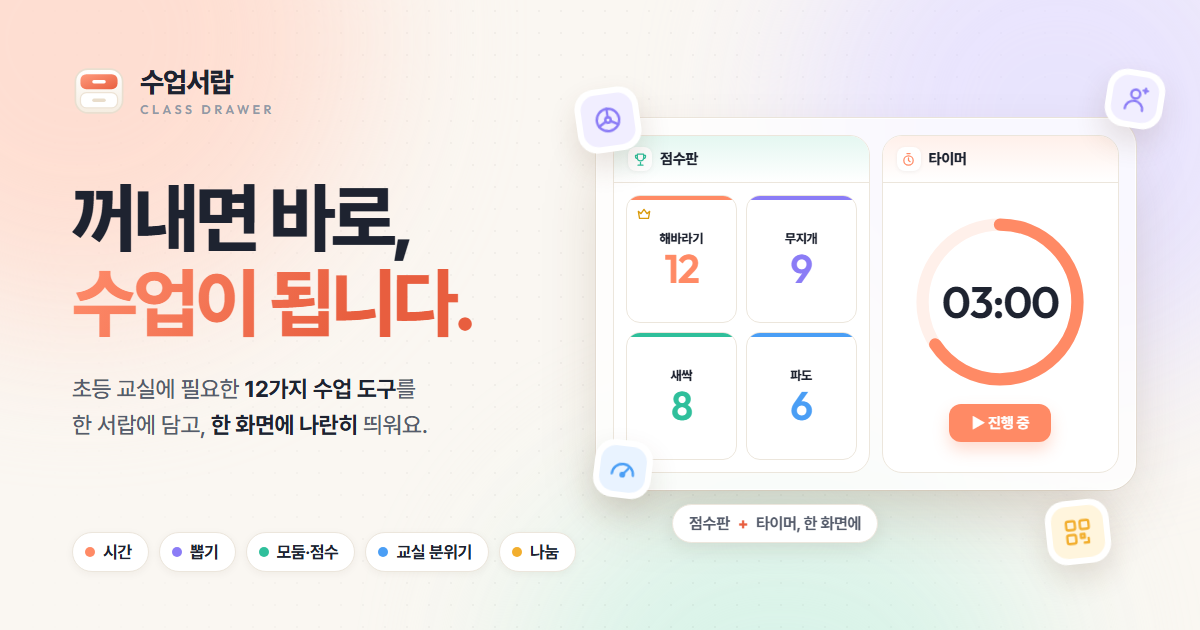
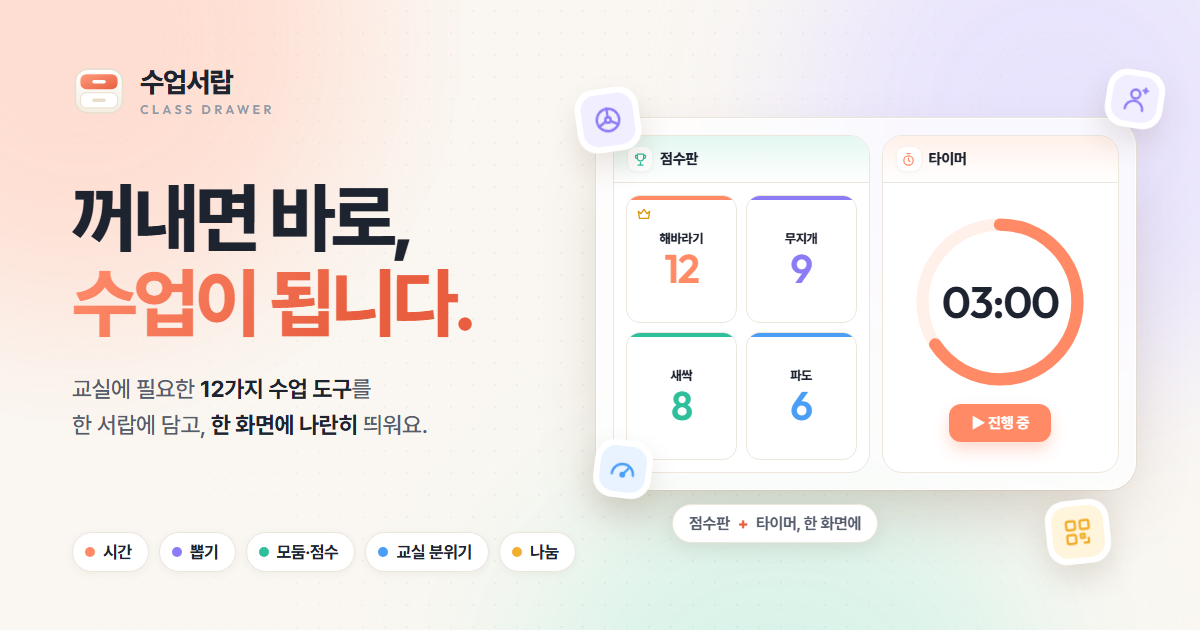
Add files via upload

Changed region(s): [[0.0617, 0.6032, 0.37, 0.6333]]

diff --git a/class/js/tools-pick.js b/class/js/tools-pick.js
@@ -7,6 +7,10 @@
   'use strict';
   const { ico, audio, roster, $, $$, esc, shuffle, rand, lines, register, WHEEL, PALETTE, fitCanvas, confetti } = SD;
   const emptyNote = () => `<div class="empty">${ico('users')}<div>명단이 비어 있어요.<br>위쪽 <b>우리 반</b> 버튼에서 이름을 넣어주세요.</div></div>`;
+  /* 움직임을 불편해하는 설정이면 굴리는 시간을 확 줄여요 */
+  const slow = () => !matchMedia('(prefers-reduced-motion: reduce)').matches;
+  /* 이름이 바뀔 때마다 조금씩 높아지는 소리 — 긴장감 */
+  const tick = (i) => audio.tone(760 + i * 26, 0, .05, .07, 'triangle');
 
   /* ---------------- 1명 뽑기 ---------------- */
   register({
@@ -37,14 +41,20 @@
         let p = pool();
         if (!p.length) { used.clear(); p = pool(); SD.toast('모두 한 번씩 뽑혔어요. 처음부터 다시 뽑아요.'); }
         clearTimeout(timer); go.disabled = true; nameEl.classList.remove('win'); nameEl.classList.add('rolling');
-        let i = 0; const steps = 22;
+        sub.textContent = '두구두구…';
+        const w = p[rand(p.length)];           /* 결과는 미리 정해두고, 굴리는 동안 감춰요 */
+        let i = 0; const steps = slow() ? 26 : 5;
         const spin = () => {
-          nameEl.textContent = all[rand(all.length)]; audio.chime('tick'); i++;
-          if (i < steps) { timer = setTimeout(spin, 30 + i * i * .45); return; }
-          const w = p[rand(p.length)]; used.add(w);
-          nameEl.textContent = w; nameEl.classList.remove('rolling'); void nameEl.offsetWidth; nameEl.classList.add('win');
-          audio.chime('pop'); confetti(stage); go.disabled = false;
-          sub.textContent = nodup.checked ? `축하해요! · 남은 친구 ${pool().length}명` : '축하해요!';
+          nameEl.textContent = all[rand(all.length)]; tick(i); i++;
+          if (i > steps * .62) nameEl.classList.add('beat');   /* 뒤로 갈수록 두근두근 */
+          /* 처음엔 빠르게, 끝으로 갈수록 눈에 띄게 느려지게 */
+          if (i < steps) { timer = setTimeout(spin, 24 + 430 * Math.pow(i / steps, 3.6)); return; }
+          timer = setTimeout(() => {           /* 마지막 한 박자 쉬고 공개 */
+            used.add(w);
+            nameEl.textContent = w; nameEl.classList.remove('rolling', 'beat'); void nameEl.offsetWidth; nameEl.classList.add('win');
+            audio.chime('pop'); confetti(stage); go.disabled = false;
+            sub.textContent = nodup.checked ? `축하해요! · 남은 친구 ${pool().length}명` : '축하해요!';
+          }, slow() ? 620 : 80);
         };
         spin();
       };
@@ -68,16 +78,45 @@
           </div>
           <div class="chips"></div>
         </div>`;
-      const cnt = $('.cnt', el), chips = $('.chips', el);
+      const cnt = $('.cnt', el), chips = $('.chips', el), go = $('.go', el);
+      let timers = [], roll = 0;
+      const stop = () => { timers.forEach(clearTimeout); timers = []; clearInterval(roll); roll = 0; };
+      const later = (ms, fn) => timers.push(setTimeout(fn, ms));
       $$('.stepper button', el).forEach(b => b.onclick = () => { cnt.value = Math.max(1, (+cnt.value || 1) + +b.dataset.d); });
-      $('.go', el).onclick = () => {
+      go.onclick = () => {
         const s = roster.students();
         if (!s.length) { chips.innerHTML = emptyNote(); return; }
+        stop();
         const n = Math.min(Math.max(1, +cnt.value || 1), s.length);
-        chips.innerHTML = shuffle(s).slice(0, n).map((x, i) => `<div class="name-chip" style="animation-delay:${i * 90}ms"><i>${i + 1}</i>${esc(x)}</div>`).join('');
-        audio.chime('pop');
+        const win = shuffle(s).slice(0, n);
+        /* 이름이 바뀌어도 칸이 들썩이지 않게, 가장 긴 이름에 너비를 맞춰요 */
+        chips.style.setProperty('--nw', Math.min(6, Math.max(3, ...s.map(x => [...x].length))));
+        chips.innerHTML = win.map((x, i) => `<div class="name-chip rolling" style="animation-delay:${i * 60}ms"><i>${i + 1}</i><span class="nm">?</span></div>`).join('');
+        const cells = $$('.name-chip', chips);
+        go.disabled = true;
+        /* 먼저 전부 드르륵 돌아가고 */
+        let k = 0;
+        roll = setInterval(() => {
+          cells.forEach(c => { if (c.classList.contains('rolling')) $('.nm', c).textContent = s[rand(s.length)]; });
+          if (k % 2 === 0) tick(k % 12);   /* 소리는 한 번 걸러 — 너무 시끄럽지 않게 */
+          k++;
+        }, 70);
+        /* 한 명씩 천천히 멈춰요 — 마지막 한 명은 한 박자 더 끌고 */
+        const gap = slow() ? Math.max(280, Math.min(820, 4200 / n)) : 90;
+        win.forEach((name, i) => {
+          const last = i === n - 1;
+          later((slow() ? 800 : 120) + gap * i + (last ? gap * .8 : 0), () => {
+            const c = cells[i]; $('.nm', c).textContent = name;
+            c.classList.remove('rolling'); c.classList.add('win');
+            if (last) { stop(); go.disabled = false; audio.chime('pop'); confetti(chips); }
+            else audio.tone(600 + i * 60, 0, .22, .15, 'triangle');
+          });
+        });
       };
-      return {};
+      return {
+        destroy() { stop(); },
+        onRoster() { stop(); chips.innerHTML = ''; go.disabled = false; },
+      };
     },
   });
 

diff --git a/class/index.html b/class/index.html
@@ -12,8 +12,8 @@
   <title>수업서랍 · 꺼내면 바로, 수업이 됩니다</title>
 
   <!-- 기본 메타 -->
-  <meta name="description" content="초등 선생님을 위한 수업 도구 서랍. 타이머·한 명 뽑기·룰렛·사다리·모둠 편성·점수판·소음 측정·QR 코드까지 12가지 도구를 한 곳에 모았고, 점수판과 타이머처럼 여러 도구를 한 화면에 나란히 띄워 쓸 수 있어요. 설치·로그인 없이 바로 사용하세요.">
-  <meta name="keywords" content="수업서랍, 수업 도구, 초등 수업, 교실 타이머, 랜덤 뽑기, 발표자 뽑기, 룰렛, 사다리 타기, 모둠 편성, 점수판, 소음 측정기, 백색소음, QR 코드, 교사 도구, 전자칠판">
+  <meta name="description" content="선생님을 위한 수업 도구 서랍. 타이머·한 명 뽑기·룰렛·사다리·모둠 편성·점수판·소음 측정·QR 코드까지 12가지 도구를 한 곳에 모았고, 점수판과 타이머처럼 여러 도구를 한 화면에 나란히 띄워 쓸 수 있어요. 설치·로그인 없이 바로 사용하세요.">
+  <meta name="keywords" content="수업서랍, 수업 도구, 수업 준비, 교실 타이머, 랜덤 뽑기, 발표자 뽑기, 룰렛, 사다리 타기, 모둠 편성, 점수판, 소음 측정기, 백색소음, QR 코드, 교사 도구, 전자칠판">
   <meta name="author" content="황성재 (@hirame.ki)">
   <meta name="copyright" content="© 2026 황성재 (@hirame.ki). All rights reserved.">
   <meta name="application-name" content="수업서랍">
@@ -29,7 +29,7 @@
   <meta property="og:site_name" content="수업서랍">
   <meta property="og:locale" content="ko_KR">
   <meta property="og:title" content="수업서랍 · 꺼내면 바로, 수업이 됩니다">
-  <meta property="og:description" content="타이머·뽑기·점수판·모둠 편성까지, 초등 교실에 필요한 12가지 도구를 한 서랍에. 여러 도구를 한 화면에 나란히 띄워 쓰세요.">
+  <meta property="og:description" content="타이머·뽑기·점수판·모둠 편성까지, 교실에 필요한 12가지 도구를 한 서랍에. 여러 도구를 한 화면에 나란히 띄워 쓰세요.">
   <meta property="og:image" content="https://hirame-ki.github.io/class/assets/og-image.png">
   <meta property="og:image:secure_url" content="https://hirame-ki.github.io/class/assets/og-image.png">
   <meta property="og:image:type" content="image/png">
@@ -40,7 +40,7 @@
   <!-- X(트위터) -->
   <meta name="twitter:card" content="summary_large_image">
   <meta name="twitter:title" content="수업서랍 · 꺼내면 바로, 수업이 됩니다">
-  <meta name="twitter:description" content="초등 교실에 필요한 12가지 수업 도구를 한 서랍에. 점수판과 타이머를 한 화면에 나란히.">
+  <meta name="twitter:description" content="교실에 필요한 12가지 수업 도구를 한 서랍에. 점수판과 타이머를 한 화면에 나란히.">
   <meta name="twitter:image" content="https://hirame-ki.github.io/class/assets/og-image.png">
   <meta name="twitter:image:alt" content="수업서랍 대표 이미지">
 
@@ -61,7 +61,7 @@
     "alternateName": "Class Drawer",
     "url": "https://hirame-ki.github.io/class/",
     "image": "https://hirame-ki.github.io/class/assets/og-image.png",
-    "description": "초등 선생님을 위한 수업 도구 모음. 타이머, 스톱워치, 알림 종, 한 명 뽑기, 여러 명 뽑기, 룰렛, 사다리 타기, 모둠 편성, 점수판, 소음 측정, 집중 소리, QR 코드를 한 화면에서 나란히 사용할 수 있습니다.",
+    "description": "선생님을 위한 수업 도구 모음. 타이머, 스톱워치, 알림 종, 한 명 뽑기, 여러 명 뽑기, 룰렛, 사다리 타기, 모둠 편성, 점수판, 소음 측정, 집중 소리, QR 코드를 한 화면에서 나란히 사용할 수 있습니다.",
     "applicationCategory": "EducationalApplication",
     "operatingSystem": "Web",
     "inLanguage": "ko",
@@ -89,8 +89,8 @@
 <body>
   <div class="bg-deco" aria-hidden="true"><i></i><i></i><i></i></div>
 
-  <!-- 오프닝 -->
-  <div class="intro" id="intro" hidden>
+  <!-- 오프닝 — 첫 화면부터 덮고 있어야 홈이 먼저 비치지 않아요 (안쪽 요소는 .play 전까지 안 보임) -->
+  <div class="intro" id="intro">
     <div class="intro-stage">
       <div class="intro-icons"></div>
       <div class="cabinet">
@@ -127,7 +127,7 @@
         <div class="home-inner">
           <div class="hero">
             <div>
-              <span class="hero-eyebrow">초등 교실을 위한 수업 도구 서랍</span>
+              <span class="hero-eyebrow">교실을 위한 수업 도구 서랍</span>
               <h1>꺼내면 바로,<br><em>수업이 됩니다.</em></h1>
               <p>12가지 도구를 비슷한 것끼리 다섯 칸에 정리했어요.<br>두 개 이상 골라 한 화면에 나란히 띄울 수도 있어요.</p>
             </div>

diff --git a/class/css/app.css b/class/css/app.css
@@ -177,7 +177,7 @@ svg { display: block; }
 .tool-ico { width: 48px; height: 48px; border-radius: 15px; background: var(--c-soft); color: var(--c); display: grid; place-items: center; }
 .tool-ico .ico { font-size: 25px; stroke-width: 1.9; }
 .tool-name { font-size: 17px; font-weight: 800; letter-spacing: -0.03em; }
-.tool-desc { font-size: 13.5px; color: var(--ink-2); line-height: 1.5; margin-top: 4px; }
+.tool-desc { display: block; font-size: 13.5px; color: var(--ink-2); line-height: 1.5; margin-top: 4px; }
 .tool-check {
   position: absolute; top: 16px; right: 16px; width: 26px; height: 26px; border-radius: 50%;
   border: 2px solid var(--line-2); background: #fff; display: grid; place-items: center; color: #fff;
@@ -350,6 +350,44 @@ body[data-view="workspace"] .maker-chip { opacity: 0; visibility: hidden; transf
 /* 토스트 */
 .toast { position: fixed; left: 50%; top: 80px; z-index: 60; transform: translate(-50%, -20px); opacity: 0; pointer-events: none; transition: all .35s var(--spring); background: var(--ink); color: #fff; font-size: 14px; font-weight: 600; padding: 11px 18px; border-radius: 14px; box-shadow: var(--shadow-3); }
 .toast.show { opacity: 1; transform: translate(-50%, 0); }
+
+/* ---------- 한 화면에 다 보이는 서랍 (넓은 화면·전자칠판) ---------- */
+@media (min-width: 1000px) and (min-height: 600px) {
+  .view.home { overflow: hidden; }
+  .home { height: 100%; padding: clamp(16px, 2.6vh, 36px) clamp(20px, 2.4vw, 34px) clamp(12px, 1.8vh, 24px); }
+  .home-inner { max-width: 1560px; height: 100%; display: flex; flex-direction: column; gap: clamp(10px, 1.8vh, 22px); }
+
+  .hero { margin-bottom: 0; align-items: center; gap: 20px; }
+  .hero-eyebrow { margin-bottom: clamp(6px, 1.1vh, 14px); }
+  .hero h1 { font-size: clamp(24px, 2vw + .8vh, 40px); }
+  .hero p { margin-top: clamp(4px, .9vh, 10px); font-size: clamp(13.5px, 1.6vh, 16px); }
+  .combo-row { margin-bottom: 0; gap: 8px; }
+
+  /* 서랍 다섯 칸을 두 줄에: 칸 너비는 그 안의 도구 수에 비례 (--n / --row) */
+  #drawers { --dg: 14px; flex: 1; min-height: 0; display: flex; flex-wrap: wrap; align-content: stretch; gap: clamp(10px, 1.8vh, 22px) var(--dg); }
+  .drawer {
+    margin-bottom: 0; min-width: 0; min-height: 0; container-type: inline-size;
+    display: flex; flex-direction: column;
+    flex: var(--n, 3) 1 calc(var(--n, 3) * (100% - var(--dg)) / var(--row, 7));
+  }
+  .drawer-head { margin-bottom: clamp(6px, 1.1vh, 14px); flex-wrap: nowrap; gap: 10px; }
+  .drawer-desc { min-width: 0; white-space: nowrap; overflow: hidden; text-overflow: ellipsis; }
+  @container (max-width: 400px) { .drawer-desc { display: none; } }
+
+  #drawers .tool-grid { flex: 1; min-height: 0; grid-template-columns: repeat(var(--n, 3), minmax(0, 1fr)); gap: clamp(8px, .9vw, 14px); }
+  #drawers .tool-card { min-height: 0; justify-content: center; container-type: inline-size; padding: clamp(12px, 1.8vh, 20px); gap: clamp(8px, 1.3vh, 14px); }
+  #drawers .tool-ico { width: clamp(36px, 4.6vh, 48px); height: clamp(36px, 4.6vh, 48px); border-radius: 14px; }
+  #drawers .tool-ico .ico { font-size: clamp(19px, 2.4vh, 25px); }
+  #drawers .tool-name { font-size: clamp(14.5px, 1.9vh, 17px); }
+  #drawers .tool-desc { font-size: clamp(12px, 1.5vh, 13.5px); display: -webkit-box; -webkit-box-orient: vertical; -webkit-line-clamp: 3; overflow: hidden; }
+  @container (max-width: 120px) { #drawers .tool-desc { display: none; } }
+
+  .home-foot { margin-top: 0; padding-top: clamp(8px, 1.3vh, 18px); }
+  .home.selecting .home-foot { visibility: hidden; }
+}
+@media (min-width: 1000px) and (max-height: 700px) {
+  .hero p { display: none; }
+}
 
 @media (max-width: 860px) {
   .topbar { padding: 0 12px; gap: 6px; }

diff --git a/class/css/tools.css b/class/css/tools.css
@@ -106,20 +106,25 @@
 .pick-name { font-size: min(15cqw, 22cqh, 150px); font-weight: 900; letter-spacing: -0.05em; line-height: 1.1; color: var(--ink); min-height: 1.1em; }
 .pick-name.rolling { color: var(--pick); filter: blur(.4px); }
 .pick-name.win { animation: winPop .6s var(--spring); }
+.pick-name.beat { animation: pickBeat .34s ease-in-out infinite alternate; }
 @keyframes winPop { 0% { transform: scale(.7); } 100% { transform: scale(1); } }
+@keyframes pickBeat { from { transform: scale(1); } to { transform: scale(1.07); } }
 .pick-sub { margin-top: 10px; font-size: clamp(13px, 2.6cqmin, 17px); font-weight: 700; color: var(--ink-3); }
 .confetti { position: absolute; inset: 0; pointer-events: none; }
 .confetti i { position: absolute; top: 40%; left: 50%; width: 8px; height: 12px; border-radius: 2px; opacity: 0; animation: conf 1.1s var(--ease) forwards; }
 @keyframes conf { 0% { opacity: 1; transform: translate(0, 0) rotate(0); } 100% { opacity: 0; transform: translate(var(--dx), var(--dy)) rotate(var(--rot)); } }
 
 /* ---------------- N명 뽑기 ---------------- */
-.chips { display: flex; flex-wrap: wrap; gap: clamp(8px, 1.8cqmin, 14px); justify-content: center; width: min(100%, 900px); min-height: 60px; }
+.chips { position: relative; display: flex; flex-wrap: wrap; gap: clamp(8px, 1.8cqmin, 14px); justify-content: center; width: min(100%, 900px); min-height: 60px; }
 .name-chip {
   display: inline-flex; align-items: center; gap: 10px; padding: clamp(8px, 1.8cqmin, 14px) clamp(14px, 3cqmin, 24px);
   border-radius: 999px; background: #fff; border: 1px solid var(--line); box-shadow: var(--shadow-1);
   font-size: clamp(15px, 3.6cqmin, 28px); font-weight: 800; letter-spacing: -0.03em; animation: pop .45s var(--spring) both;
 }
 .name-chip i { font-style: normal; font-family: var(--num); font-size: .7em; width: 1.6em; height: 1.6em; border-radius: 50%; display: grid; place-items: center; background: var(--pick-soft); color: var(--pick); }
+.name-chip .nm { display: inline-block; min-width: calc(var(--nw, 3) * 1em); text-align: center; }
+.name-chip.rolling { color: var(--pick); border-color: color-mix(in srgb, var(--pick) 30%, var(--line)); filter: blur(.3px); }
+.name-chip.win { animation: winPop .5s var(--spring); }
 
 /* ---------------- 룰렛 ---------------- */
 .wheel { --wheel: max(170px, min(calc(100cqh - 250px), 88cqw, 620px)); position: relative; width: var(--wheel); height: var(--wheel); }

diff --git a/class/js/app.js b/class/js/app.js
@@ -48,18 +48,28 @@
     return `<button class="tool-card ${extra}" data-id="${t.id}" style="${gc(t.group)}">
       <span class="tool-check">${ico('check')}</span>
       <span class="tool-ico">${ico(t.icon)}</span>
-      <span><span class="tool-name">${t.name}</span><span class="tool-desc" style="display:block">${t.desc}</span></span>
+      <span><span class="tool-name">${t.name}</span><span class="tool-desc">${t.desc}</span></span>
       <span class="open-hint">열기 ${ico('arrow')}</span>
     </button>`;
+  }
+  /* 서랍을 두 줄에 나눠 담을 때 한 줄에 들어갈 도구 수 — 한 화면에 다 보이게 */
+  function rowCap(counts) {
+    const total = counts.reduce((a, b) => a + b, 0);
+    const rows = (cap) => counts.reduce((r, n) => (r.at(-1) + n <= cap ? r[r.length - 1] += n : r.push(n), r), [0]).length;
+    let cap = Math.max(...counts, Math.ceil(total / 2));
+    while (cap < total && rows(cap) > 2) cap++;
+    return cap;
   }
   function renderHome() {
     $('#combos').innerHTML = `<span class="combo-label">${ico('layers')}자주 쓰는 조합</span>` + COMBOS.map(c => {
       const ts = c.map(byId);
       return `<button class="combo" data-combo="${c.join(',')}"><span class="dots">${ts.map(t => `<span style="${gc(t.group)};background:var(--c-soft);color:var(--c)">${ico(t.icon)}</span>`).join('')}</span>${ts.map(t => t.name).join('<span class="plus"> + </span>')}</button>`;
     }).join('');
+    const counts = GROUPS.map(g => TOOLS.filter(t => t.group === g.id).length);
+    $('#drawers').style.setProperty('--row', rowCap(counts));
     $('#drawers').innerHTML = GROUPS.map((g, gi) => {
       const ts = TOOLS.filter(t => t.group === g.id);
-      return `<section class="drawer" style="${gc(g.id)};--d:${gi}">
+      return `<section class="drawer" style="${gc(g.id)};--d:${gi};--n:${ts.length}">
         <div class="drawer-head"><span class="drawer-no">${g.no}</span><h2 class="drawer-title">${g.name}</h2><span class="drawer-desc">${g.desc}</span><span class="drawer-line"></span></div>
         <div class="tool-grid">${ts.map(t => card(t)).join('')}</div>
       </section>`;

diff --git a/class/assets/og-image.html b/class/assets/og-image.html
@@ -69,7 +69,7 @@
   <div class="left">
     <div class="brand"><img src="favicon.svg" alt=""><div><b>수업서랍</b><small>CLASS DRAWER</small></div></div>
     <h1>꺼내면 바로,<br><em>수업이 됩니다.</em></h1>
-    <p class="sub">초등 교실에 필요한 <b>12가지 수업 도구</b>를<br>한 서랍에 담고, <b>한 화면에 나란히</b> 띄워요.</p>
+    <p class="sub">교실에 필요한 <b>12가지 수업 도구</b>를<br>한 서랍에 담고, <b>한 화면에 나란히</b> 띄워요.</p>
   </div>
   <div class="chips">
     <span class="chip" style="--c:var(--time)"><i></i>시간</span>
